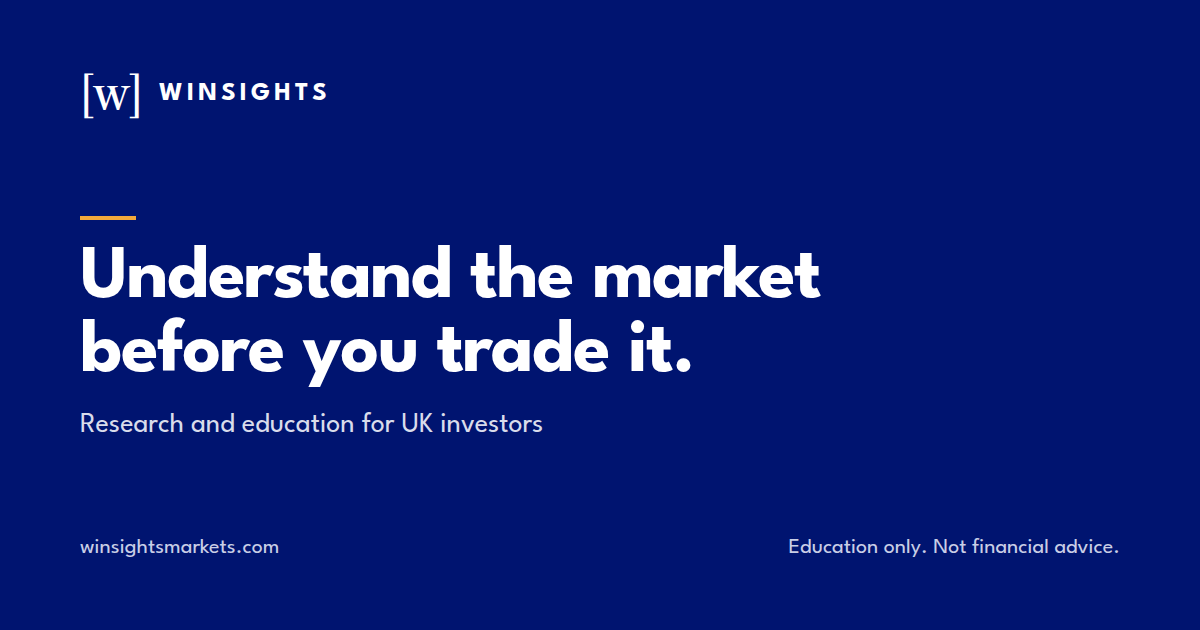
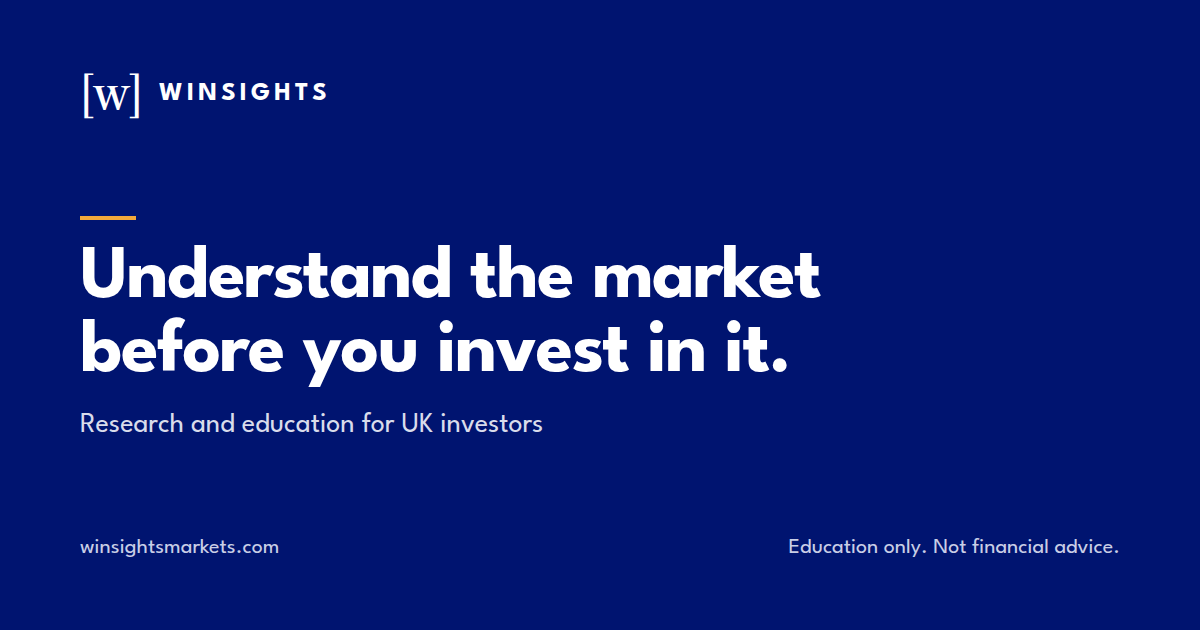
Headline: understand the market before you invest in it (page + share image)

Changed region(s): [[0.37, 0.5127, 0.6783, 0.6032]]

diff --git a/content/home-v2.html b/content/home-v2.html
@@ -25,7 +25,7 @@
 <div style="flex: 1 1 520px; min-width: 0; display: flex; flex-direction: column; gap: 28px">
 <div style="display: flex; align-items: center; gap: 10px; font-size: 14px; font-weight: 600; letter-spacing: 0.14em; text-transform: uppercase; color: #C9CEE6"><span style="width: 28px; height: 2px; background: rgb(242, 169, 59)"><br></span>
 Research and education for UK traders</div>
-<h1 style="margin: 0; font-weight: 700; font-size: clamp(44px, 5.6vw, 80px); line-height: 0.98; letter-spacing: -0.02em">Understand the market before you trade it.</h1>
+<h1 style="margin: 0; font-weight: 700; font-size: clamp(44px, 5.6vw, 80px); line-height: 0.98; letter-spacing: -0.02em">Understand the market before you invest in it.</h1>
 <p style="margin: 0; font-size: clamp(18px, 1.6vw, 21px); line-height: 1.5; color: #D9DCEB; max-width: 560px">Daily macro briefings, daily FX and gold trade ideas, a fully transparent portfolio and a curriculum that takes you from your first ISA to reading a central bank statement. Delivered on WhatsApp, organised in your own member portal.</p>
 <div style="display: flex; flex-wrap: wrap; gap: 14px; align-items: center">
 <a href="#membership" style="background: #FFFFFF; color: #001470; text-decoration: none; font-weight: 600; font-size: 18px; padding: 17px 28px; border-radius: 999px">Become a member</a>

diff --git a/app/layout.tsx b/app/layout.tsx
@@ -49,7 +49,7 @@ export const metadata: Metadata = {
         url: "/og-image.png",
         width: 1200,
         height: 630,
-        alt: "Winsights: understand the market before you trade it",
+        alt: "Winsights: understand the market before you invest in it",
       },
     ],
   },
